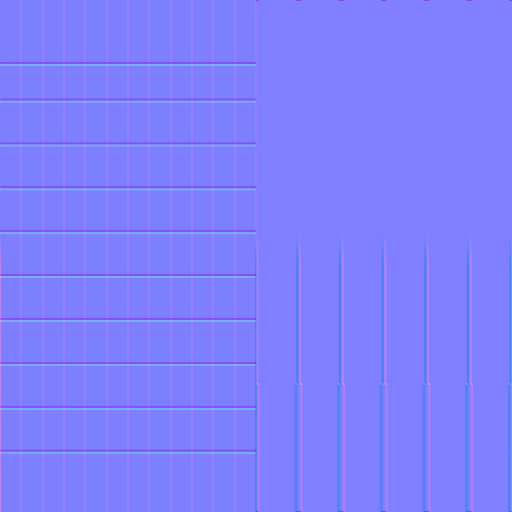
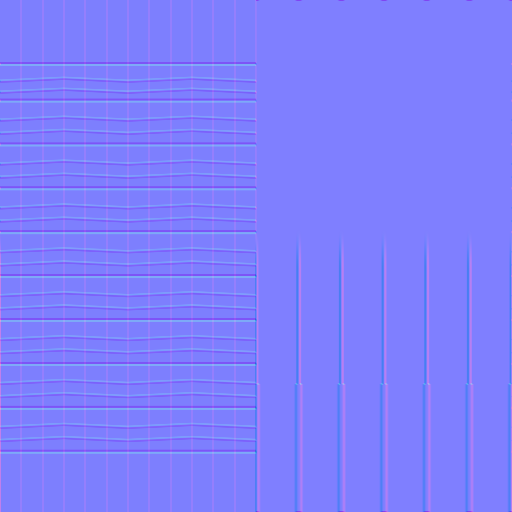
SpiderCue v13 polish (coordinator 19:4x): smooth-shaded dome, eyes and blades (SMOOTH + patch_smooth write the Smooth key), C1's red chevron scales painted small on the shaft atlas; hand-at-aim retaken, nothing crosses the aim line

diff --git a/assets/cue/CuePiecesHalloween_B.py b/assets/cue/CuePiecesHalloween_B.py
@@ -1555,8 +1555,9 @@ SPIDER_DOME = ((6.98, 0.30), (7.3, 0.30), (7.5, 0.32), (7.58, 0.38), (7.68, 0.42
 
 
 def _spider_atlas(k):
-    """The Spider's atlas: SHAFT (glossy black with twelve long facets and a thin silver seam
-    beside each band; the bands themselves are Neon geometry), TIP (the red crystal spear: six
+    """The Spider's atlas: SHAFT (glossy black with twelve long facets, a thin silver seam
+    beside each band and C1's red chevron scales between the bands; the bands themselves are
+    Neon geometry), TIP (the red crystal spear: six
     facets, pale edges, emissive) and CAP (the collar's silver facet edges, the dome's black)."""
     import numpy as np
     A = Atlas('spider')
@@ -1575,7 +1576,16 @@ def _spider_atlas(k):
     for b in SPIDER_BANDS:
         seam = np.maximum(seam, _smooth(np.abs(d - (b + 0.075)), 0.02, 0.008))
     col = _lerp(col, silver, seam * 0.8)
-    A.paint('SHAFT', col, height=facet * 0.15 - seam * 0.3, emissive=np.zeros_like(U), bump=1.2)
+    # C1's chevron scales (v13): between the bands two thin red V-lines pointing at the tip, twice
+    # round the shaft, emissive so they read on the bright floor
+    chev = np.abs(((U + 0.25) % 0.5) - 0.25) * 2.0
+    scale = np.zeros_like(U)
+    for b0, b1 in zip(SPIDER_BANDS[:-1], SPIDER_BANDS[1:]):
+        for frac in (0.38, 0.68):
+            dd = b0 + (b1 - b0) * frac + 0.08 * chev
+            scale = np.maximum(scale, _smooth(np.abs(d - dd), 0.016, 0.005))
+    col = _lerp(col, red, scale)
+    A.paint('SHAFT', col, height=facet * 0.15 - seam * 0.3 + scale * 0.2, emissive=scale * 0.8, bump=1.2)
 
     U, V = A.grid('TIP')
     facet = np.abs(((U * 6) % 1.0) - 0.5) * 2.0
@@ -2015,6 +2025,32 @@ def patch_outline(pid):
     print('CUE patch_outline %s: %s' % (pid, ', '.join(names)))
 
 
+
+# The rigid parts the GLB packer smooth-shades (tools/cue_pieces_glb.py rebuilds every rigid
+# part from its OBJ flat, so a lathe's dome showed its 24 facets like a disco ball, coordinator
+# 19:5x; the key is opt-in, every other piece packs as before). Faceted by design: the gem.
+SMOOTH = {'spider': ['Body_Body', 'Body_Red', 'Crown_Blade', 'Eyes_Eye']}
+
+
+def patch_smooth(pid):
+    """Write `Smooth: true` on the parts SMOOTH names into the built piece.json."""
+    names = SMOOTH.get(pid, ())
+    if not names:
+        return
+    path = os.path.join(PIECES_DIR, pid, 'piece.json')
+    spec = json.load(open(path))
+    found = {part['Name'] for part in spec['Parts']}
+    for n in names:
+        if n not in found:
+            raise RuntimeError('CUE patch_smooth FAIL %s: SMOOTH names part %s, which the piece has not got' % (pid, n))
+    for part in spec['Parts']:
+        if part['Name'] in names:
+            part['Smooth'] = True
+    with open(path, 'w') as fh:
+        json.dump(spec, fh, indent=2)
+        fh.write('\n')
+    print('CUE patch_smooth %s: %s' % (pid, ', '.join(names)))
+
 # =============================================================================================
 # Previews: the body on its own (the plain cue hidden), from the views a gate wants
 # =============================================================================================
@@ -2206,6 +2242,7 @@ def build_checked(pid, render_preview=True):
     check_envelope(pid, kit)
     patch_aim(pid)
     patch_outline(pid)
+    patch_smooth(pid)
     if render_preview:
         preview_body(pid)
     return spec
